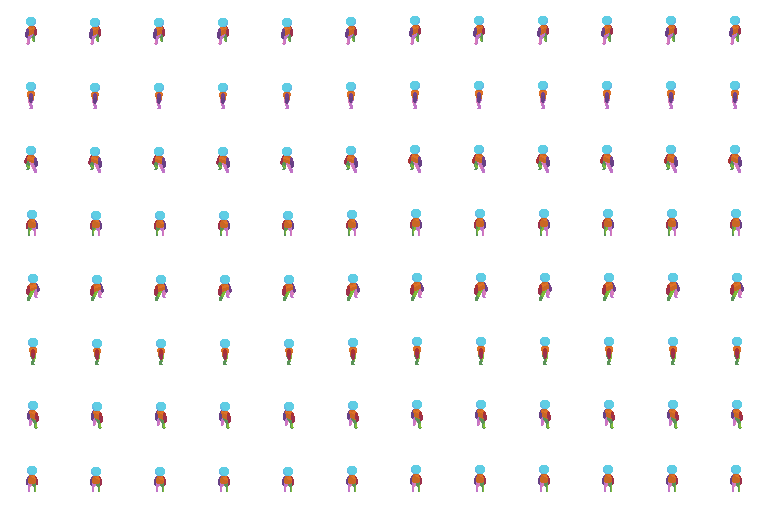
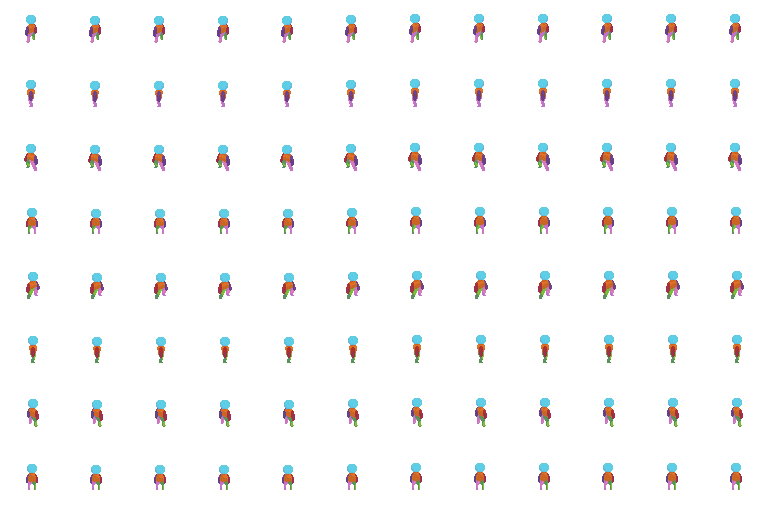
Added particle system and attack particles

diff --git a/src/game/character/player.rs b/src/game/character/player.rs
@@ -12,6 +12,7 @@ use crate::game::grid::coords::{
 };
 //use crate::game::object::Shadow;
 use crate::game::character::health::{DamageType, Health, HealthEvent, HealthEventType};
+use crate::game::particle::{ParticleAnimation, ParticleSpawnEvent};
 use crate::game::physics::components::{Collider, PhysicsData};
 use crate::game::physics::movement::MovementController;
 use crate::gamepad::GamepadRes;
@@ -34,7 +35,8 @@ pub(super) fn plugin(app: &mut App) {
             camera_follow_player.in_set(AppSystems::Respond),
         ),
     )
-    .add_observer(on_aim_facing_changed);
+    .add_observer(on_aim_facing_changed)
+    .add_observer(on_player_attack);
 }
 
 const ATTACK_DURATION: u64 = 350;
@@ -387,12 +389,10 @@ fn record_action_input(
                 *facing = aim_facing;
             }
 
-            commands.trigger(CharacterStateEvent {
+            commands.trigger(PlayerAttackEvent {
                 entity: player,
-                new_state: CharacterState::Attacking { time_left: ATTACK_DURATION as f32 / 1000.0 },
-                prev_state: None,
-                config: Default::default(),
-            })
+                facing: *facing,
+            });
         }
     }
 }
@@ -413,6 +413,54 @@ fn camera_follow_player(
     camera_transform.translation = player_transform.translation;
 }
 
+#[derive(EntityEvent, Debug, Clone, Reflect)]
+struct PlayerAttackEvent {
+    entity: Entity,
+    facing: Facing,
+}
+
+fn on_player_attack(
+    event: On<PlayerAttackEvent>,
+    player_assets: Res<PlayerAssets>,
+    mut texture_atlas_layouts: ResMut<Assets<TextureAtlasLayout>>,
+    mut commands: Commands,
+) {
+    commands.trigger(CharacterStateEvent {
+        entity: event.entity,
+        new_state: CharacterState::Attacking {
+            time_left: ATTACK_DURATION as f32 / 1000.0,
+        },
+        prev_state: None,
+        config: Default::default(),
+    });
+
+    const NUM_FRAMES: u32 = 7;
+
+    let particle_layout =
+        TextureAtlasLayout::from_grid(UVec2::new(96, 96), NUM_FRAMES, 8, None, None);
+    let particle_layout = texture_atlas_layouts.add(particle_layout);
+
+    let particle_sprite = Sprite::from_atlas_image(
+        player_assets.attack_particle.clone(),
+        TextureAtlas {
+            layout: particle_layout,
+            index: event.facing as usize,
+        },
+    );
+
+    let particle_animation = ParticleAnimation::new(
+        event.facing as usize * NUM_FRAMES as usize,
+        NUM_FRAMES as usize,
+        Duration::from_millis(ATTACK_DURATION / NUM_FRAMES as u64),
+    );
+
+    commands.trigger(ParticleSpawnEvent::with_parent(
+        particle_sprite,
+        particle_animation,
+        event.entity,
+    ));
+}
+
 #[derive(Resource, Asset, Clone, Reflect)]
 #[reflect(Resource)]
 pub struct PlayerAssets {
@@ -422,8 +470,11 @@ pub struct PlayerAssets {
     walk: Handle<Image>,
     #[dependency]
     run: Handle<Image>,
+
     #[dependency]
     attack: Handle<Image>,
+    #[dependency]
+    attack_particle: Handle<Image>,
 
     #[dependency]
     indicator_ring: Handle<Image>,
@@ -439,7 +490,9 @@ impl FromWorld for PlayerAssets {
             idle: assets.load("images/characters/idle.png"),
             walk: assets.load("images/characters/walk.png"),
             run: assets.load("images/characters/run.png"),
+
             attack: assets.load("images/characters/attack.png"),
+            attack_particle: assets.load("images/characters/attack_particle.png"),
 
             indicator_ring: assets.load("images/characters/indicator_ring.png"),
 

diff --git a/src/game/particle.rs b/src/game/particle.rs
@@ -1,0 +1,115 @@
+use crate::{AppSystems, PausableSystems};
+use bevy::prelude::*;
+use std::time::Duration;
+
+pub(super) fn plugin(app: &mut App) {
+    app.add_systems(
+        Update,
+        (
+            update_animation_timer.in_set(AppSystems::TickTimers),
+            update_particle.in_set(AppSystems::Update),
+        )
+            .in_set(PausableSystems),
+    )
+    .add_observer(on_particle_spawn_event);
+}
+
+fn update_animation_timer(
+    time: Res<Time>,
+    mut query: Query<(Entity, &mut ParticleAnimation), With<Particle>>,
+    mut commands: Commands,
+) {
+    for (particle, mut animation) in &mut query {
+        animation.update_timer(time.delta());
+
+        if animation.has_expired() {
+            commands.entity(particle).despawn();
+        }
+    }
+}
+
+fn update_particle(mut query: Query<(&ParticleAnimation, &mut Sprite), With<Particle>>) {
+    for (animation, mut sprite) in &mut query {
+        let Some(ref mut atlas) = sprite.texture_atlas else {
+            continue;
+        };
+
+        atlas.index = animation.start_index + animation.current_frame;
+    }
+}
+
+#[derive(Component, Clone, Debug)]
+pub struct Particle;
+
+#[derive(Event, Clone, Debug)]
+pub struct ParticleSpawnEvent {
+    sprite: Sprite,
+    particle_animation: ParticleAnimation,
+    parent: Option<Entity>,
+}
+
+impl ParticleSpawnEvent {
+    pub fn _new(sprite: Sprite, particle_animation: ParticleAnimation) -> Self {
+        Self {
+            sprite,
+            particle_animation,
+            parent: None,
+        }
+    }
+
+    pub fn with_parent(sprite: Sprite, particle_animation: ParticleAnimation, parent: Entity) -> Self {
+        Self {
+            sprite,
+            particle_animation,
+            parent: Some(parent),
+        }
+    }
+}
+
+fn on_particle_spawn_event(event: On<ParticleSpawnEvent>, mut commands: Commands) {
+    let particle = commands
+        .spawn((
+            Particle,
+            event.sprite.clone(),
+            event.particle_animation.clone(),
+            Transform::from_translation(Vec3::Z * 100.0),
+        ))
+        .id();
+
+    if let Some(parent) = event.parent {
+        commands.entity(parent).add_child(particle);
+    }
+}
+
+#[derive(Component, Clone, Debug)]
+pub struct ParticleAnimation {
+    timer: Timer,
+    start_index: usize,
+    num_frames: usize,
+    current_frame: usize,
+}
+
+impl ParticleAnimation {
+    pub fn new(start_index: usize, num_frames: usize, interval: Duration) -> Self {
+        Self {
+            timer: Timer::new(interval, TimerMode::Repeating),
+            start_index,
+            num_frames,
+            current_frame: 0,
+        }
+    }
+
+    fn update_timer(&mut self, delta: Duration) {
+        self.timer.tick(delta);
+
+        if !self.timer.is_finished() {
+            return;
+        }
+
+        self.current_frame += 1;
+    }
+
+    fn has_expired(&self) -> bool {
+        self.current_frame >= self.num_frames
+    }
+}

diff --git a/src/game/mod.rs b/src/game/mod.rs
@@ -1,8 +1,3 @@
-//! Demo gameplay. All of these modules are only intended for demonstration
-//! purposes and should be replaced with your own game logic.
-//! Feel free to change the logic found here if you feel like tinkering around
-//! to get a feeling for the template.
-
 use bevy::prelude::*;
 
 pub mod character;
@@ -10,12 +5,14 @@ mod grid;
 pub mod level;
 mod object;
 mod physics;
+mod particle;
 
 pub(super) fn plugin(app: &mut App) {
     app.add_plugins((
         character::plugin,
         grid::plugin,
         level::plugin,
+        particle::plugin,
         physics::plugin,
         object::plugin,
     ));

diff --git a/src/game/character/animation.rs b/src/game/character/animation.rs
@@ -28,13 +28,11 @@ fn update_animation_timer(time: Res<Time>, mut query: Query<&mut CharacterAnimat
 fn update_animation_state(
     query: Query<(
         &mut CharacterAnimation,
-        &MovementController,
         &CharacterState,
         &Facing,
-        Option<&AimFacing>,
     )>,
 ) {
-    for (mut animation, controller, state, facing, aim_facing) in query {
+    for (mut animation, state, facing) in query {
         animation.facing = *facing;
 
         match state {
